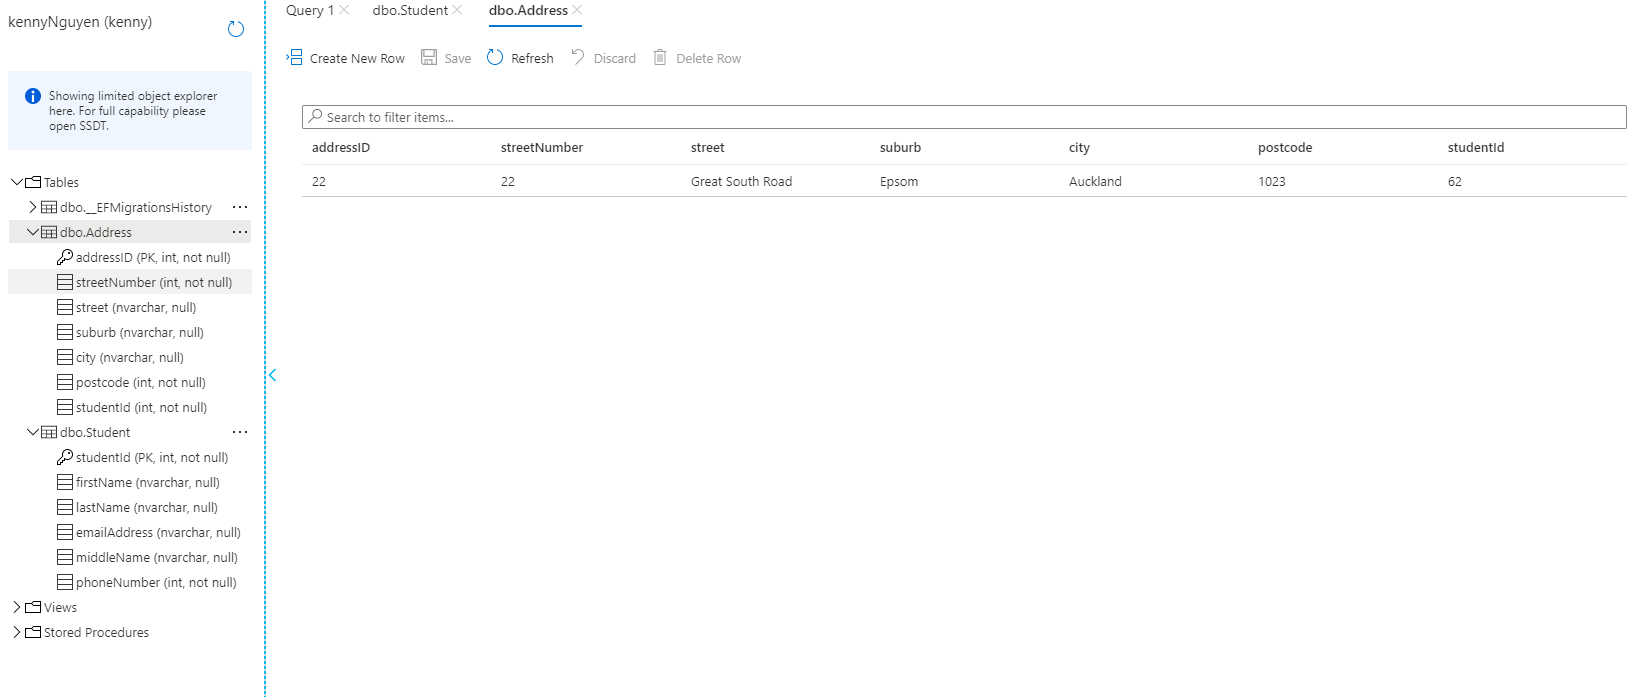
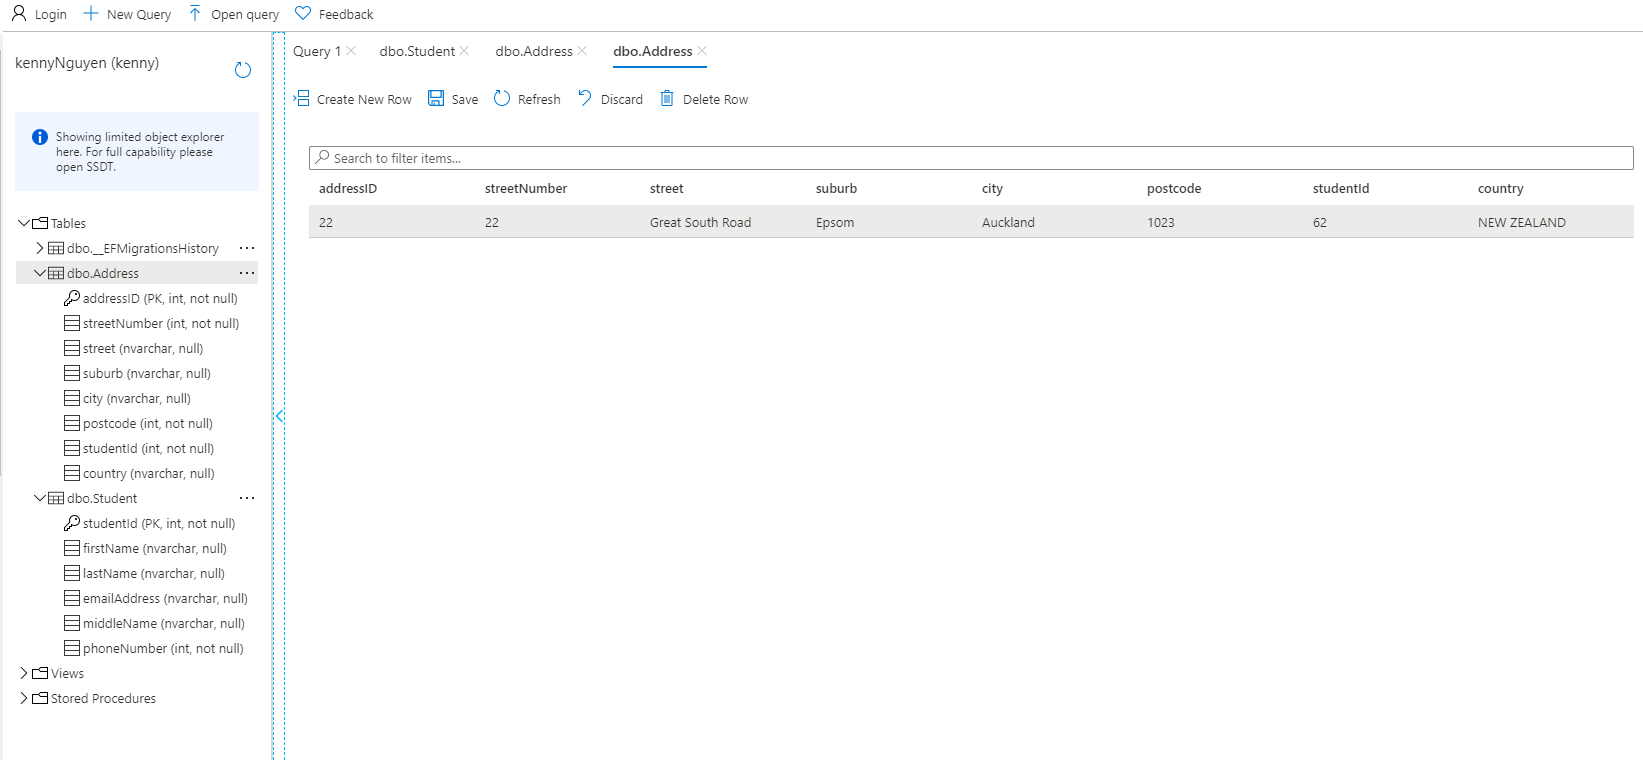
Updated Screenshots

diff --git a/StudentSIMS/Migrations/20200717003956_updatedAddressModel.Designer.cs b/StudentSIMS/Migrations/20200717003956_updatedAddressModel.Designer.cs
@@ -2,15 +2,17 @@
 using Microsoft.EntityFrameworkCore;
 using Microsoft.EntityFrameworkCore.Infrastructure;
 using Microsoft.EntityFrameworkCore.Metadata;
+using Microsoft.EntityFrameworkCore.Migrations;
 using Microsoft.EntityFrameworkCore.Storage.ValueConversion;
 using StudentSIMS.Data;
 
 namespace StudentSIMS.Migrations
 {
     [DbContext(typeof(StudentContext))]
-    partial class StudentContextModelSnapshot : ModelSnapshot
+    [Migration("20200717003956_updatedAddressModel")]
+    partial class updatedAddressModel
     {
-        protected override void BuildModel(ModelBuilder modelBuilder)
+        protected override void BuildTargetModel(ModelBuilder modelBuilder)
         {
 #pragma warning disable 612, 618
             modelBuilder

diff --git a/StudentSIMS/Migrations/20200717003956_updatedAddressModel.cs b/StudentSIMS/Migrations/20200717003956_updatedAddressModel.cs
@@ -1,0 +1,22 @@
+using Microsoft.EntityFrameworkCore.Migrations;
+
+namespace StudentSIMS.Migrations
+{
+    public partial class updatedAddressModel : Migration
+    {
+        protected override void Up(MigrationBuilder migrationBuilder)
+        {
+            migrationBuilder.AddColumn<string>(
+                name: "country",
+                table: "Address",
+                nullable: true);
+        }
+
+        protected override void Down(MigrationBuilder migrationBuilder)
+        {
+            migrationBuilder.DropColumn(
+                name: "country",
+                table: "Address");
+        }
+    }
+}

diff --git a/StudentSIMS/Models/Address.cs b/StudentSIMS/Models/Address.cs
@@ -14,6 +14,7 @@ namespace StudentSIMS.Models
         public string street { get; set; }
         public string suburb { get; set; }
         public string city { get; set; }
+        public string country { get; set; }
         public int postcode { get; set; }
         public int studentId { get; set; }
         public Student Student { get; set; }
